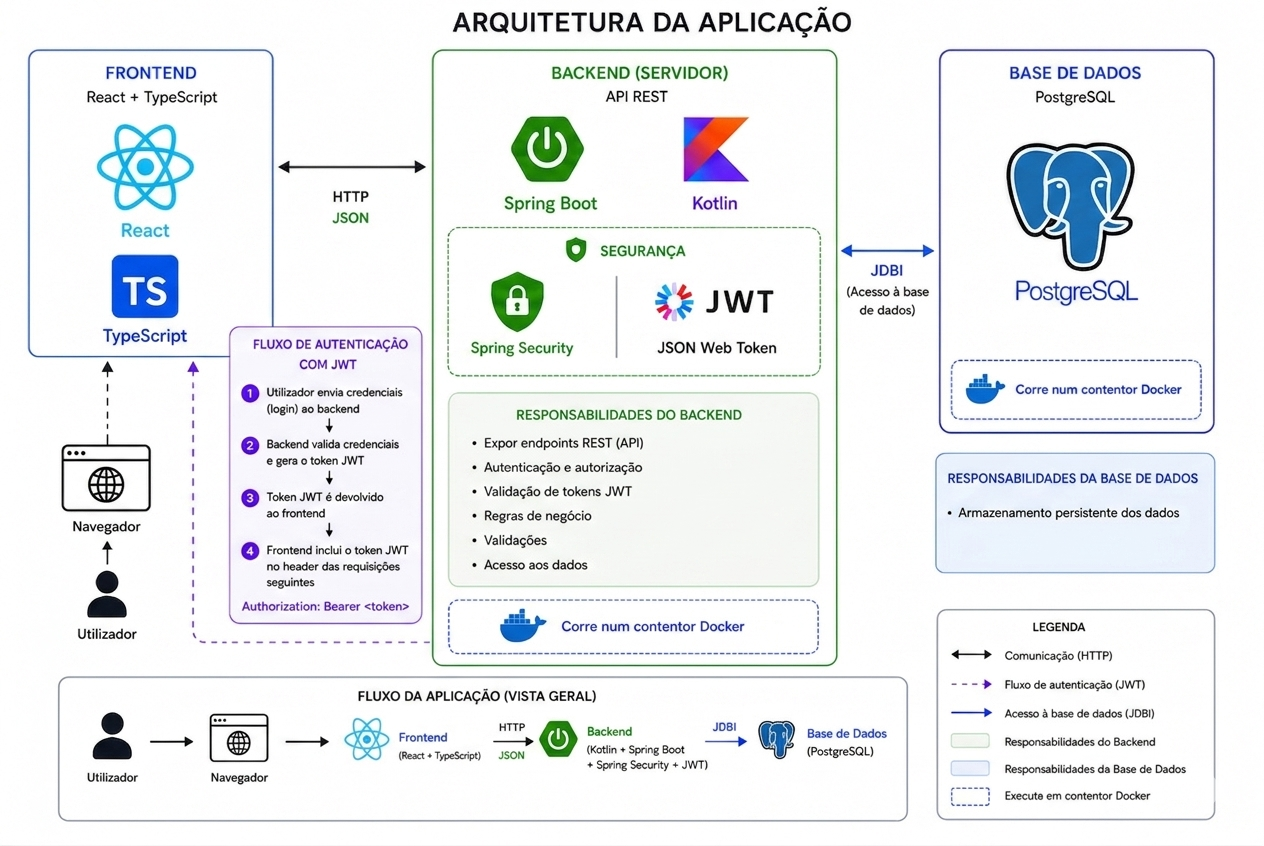
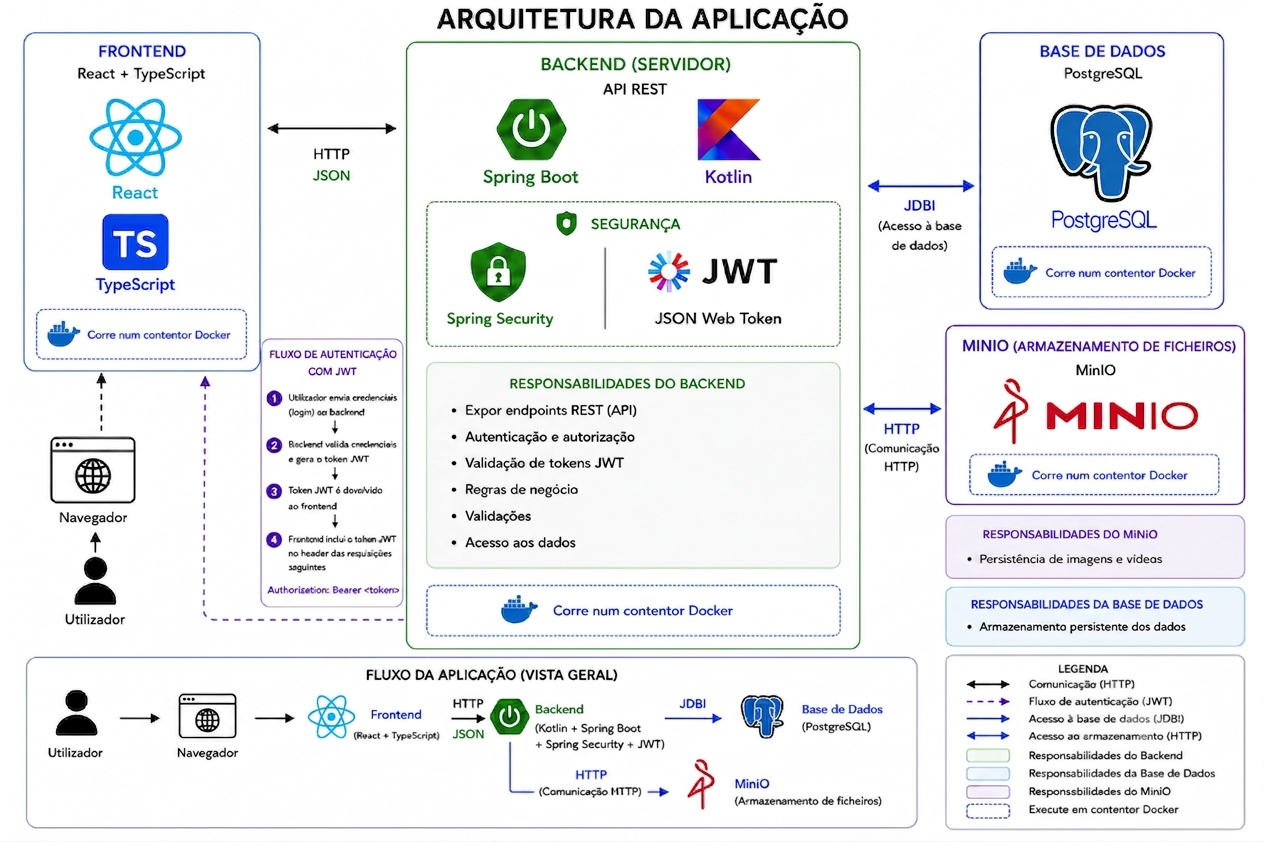
atualização da arquitetura, criação do BPMN

Changed region(s): [[0.0, 0.0, 0.9873, 0.9881]]

diff --git a/Docs/relatorio-final/solucao.tex b/Docs/relatorio-final/solucao.tex
@@ -8,15 +8,15 @@ O conteúdo encontra-se estruturado em quatro secções principais: a Secção 2
 
 \section{Arquitetura}
 
-Na Figura~\ref{fig:arquitetura_sistema} representa-se a arquitetura geral da aplicação desenvolvida no âmbito deste projeto. A solução foi concebida segundo um modelo de arquitetura \textit{client-server}, estruturado em diferentes camadas lógicas, de forma a garantir uma clara separação de responsabilidades e uma melhor organização do sistema.
+Na Figura~\ref{fig:arquitetura} representa-se a arquitetura geral da aplicação desenvolvida no âmbito deste projeto. A solução foi concebida segundo um modelo de arquitetura \textit{client-server}, estruturado em diferentes camadas lógicas, de forma a garantir uma clara separação de responsabilidades e uma melhor organização do sistema.
 
 
 
 \begin{figure}[h]
   \begin{center}
-    \includegraphics[width=1.0\textwidth]{./figures/Arquitetura.png}
+    \includegraphics[width=1.0\textwidth]{./figures/arquitetura.png}
   \end{center}
-  \caption{Arquitetura do sistema.}\label{fig:arquitetura_sistema}
+  \caption{Arquitetura do sistema.}\label{fig:arquitetura}
 \end{figure}
 
 
@@ -73,20 +73,21 @@ Recorre-se à entidade \textit{State} para representar o estado atual de um proc
 
 \begin{figure}[htbp]
   \begin{center}
-    \includegraphics[width=0.95\textwidth]{./figures/workflow-process-states.png}
+    \includegraphics[width=0.95\textwidth]{./figures/BPMN_States.png}
   \end{center}
-  \caption{Diagrama do \textit{workflow} e ciclo de vida dos estados de um processo.}\label{fig:workflow_process_states}
+  \caption{BPMN do \textit{workflow} de um processo.}\label{fig:workflow_process_states}
 \end{figure}
 
-O fluxo inicia-se obrigatoriamente com a criação do processo no estado \textit{Not Assigned}. Assim que a equipa responsável é definida (averiguador e supervisor), o processo evolui para \textit{Assigned}. O ciclo operacional propriamente dito começa quando o averiguador inicia a recolha de provas e criação do relatório, alterando o estado para \textit{On Going}. Após a conclusão da recolha de dados e preenchimento dos relatórios, o averiguador submete o processo, o qual transita automaticamente para \textit{Waiting Approval Supervisor}.
+\newpage
 
+O fluxo inicia-se obrigatoriamente com a criação do processo no estado \textit{Not Assigned}. Assim que a equipa responsável é definida (averiguador e supervisor), o processo evolui para \textit{Assigned}. O ciclo operacional propriamente dito começa quando o averiguador inicia a recolha de provas e criação do relatório, alterando o estado para \textit{On Going}. Após a conclusão da recolha de dados e preenchimento dos relatórios, o averiguador submete o processo, o qual transita automaticamente para \textit{Waiting Approval Supervisor}.
 A partir deste ponto crítico de validação, o \textit{workflow} ramifica-se de acordo com as decisões das hierarquias de supervisão e gestão:
 \begin{itemize}
     \item \textbf{Fluxo de Supervisão:} O supervisor avalia o trabalho submetido. Caso identifique desconformidades, o processo passa para \textit{Rejected by Supervisor}, sendo forçado a retroceder diretamente para o estado \textit{On Going} de modo a permitir que o averiguador efetue as devidas correções. Se o parecer for positivo, o estado passa a \textit{Approved by Supervisor}, encaminhando o processo de imediato para a fila de verificação seguinte sob o estado \textit{Waiting Approval Manager}.
     \item \textbf{Fluxo de Gestão:} O gestor (\textit{Manager}) assume a palavra final sobre o processo. Caso detete a necessidade de alterações profundas ou revisão, aplica o estado \textit{Rejected by Manager}, o que aciona um mecanismo de retorno ao estado de execução activa (\textit{On Going}). Havendo total conformidade com os requisitos institucionais, o gestor concede a validação definitiva, culminando no estado terminal de sucesso \textit{Approved by Manager}.
 \end{itemize}
 
-Adicionalmente, importa salvaguardar que, independentemente da fase em que se encontre na linha temporal descrita, qualquer processo pode ser cancelado a qualquer momento por decisão exclusiva do \textit{Manager}, assumindo nessa circunstância o estado de encerramento \textit{Canceled}.
+Adicionalmente, importa salvaguardar que, independentemente da fase em que se encontre na linha temporal descrita, qualquer processo pode ser cancelado a qualquer momento por decisão exclusiva do \textit{Manager}, assumindo nessa circunstância o estado de encerramento \textit{Canceled}. Para além disso, por este sistema se tratar de uma solução desenvolvida em resposta a um único \textit{workflow}, é importante salientar que qualquer mudança no \textit{workflow} levará à alteração dos estados de um processo, podendo haver a necessidade de aumetar ou diminuir os estados existentes.
 
 
 

diff --git a/Docs/relatorio-final/main.tex b/Docs/relatorio-final/main.tex
@@ -151,13 +151,21 @@ In order to address these limitations, a web-based platform, named IPW (Insuranc
 
 \noindent Por último, agradeço à minha mãe pelo constante incentivo e apoio incondicional. Muito obrigado.
 
-\hfill Julho 2022, Eduardo Bezerra
+\hfill Julho 2026, Eduardo Bezerra
 
+
+\vspace{1cm}
 \textit{Francisco}
 
+\vspace{1cm}
 
-\textit{Rafael}
+\noindent Gostaria de expressar o meu sincero agradecimento ao Instituto Superior de Engenharia de Lisboa pela formação académica e pelas condições disponibilizadas ao longo do curso, que foram fundamentais para o meu desenvolvimento técnico e científico.
 
+\noindent Agradeço aos meus orientadores, Artur Ferreira e Pedro Matutino, pela orientação, disponibilidade e apoio prestados durante a realização deste projeto, bem como pelas sugestões e contributos que foram essenciais para a sua concretização.
+
+\noindent Por fim, deixo um agradecimento especial à minha família e amigos, pelo apoio constante, paciência e incentivo ao longo de todo o percurso académico.
+
+\hfill Julho 2026, Rafael Reis
 
 %Texto dos agradecimentos. É opcional.\\
 
@@ -216,6 +224,7 @@ A utilização destas ferramentas teve um caráter exclusivamente assistivo, ten
 \cleardoublepage
 \addcontentsline{toc}{chapter}{Refer\^{e}ncias}
 \bibliographystyle{unsrt}
+\nocite{visual-paradigm-bpmn}
 \bibliography{referencias}
 
 % Apêndices (opcional)

diff --git a/Docs/fase-beta-relatorio/main.tex b/Docs/fase-beta-relatorio/main.tex
@@ -151,7 +151,7 @@ In order to address these limitations, a web-based platform, named IPW (Insuranc
 
 \noindent Por último, agradeço à minha mãe pelo constante incentivo e apoio incondicional. Muito obrigado.
 
-\hfill Julho 2022, Eduardo Bezerra
+\hfill Julho 2026, Eduardo Bezerra
 
 \textit{Francisco}
 
